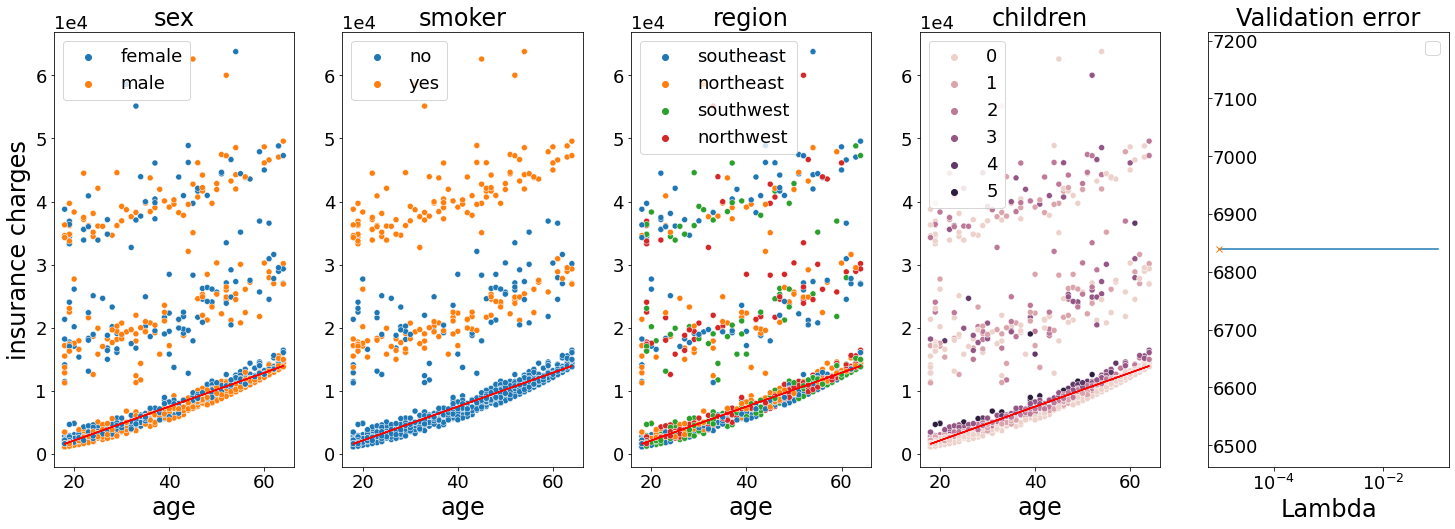
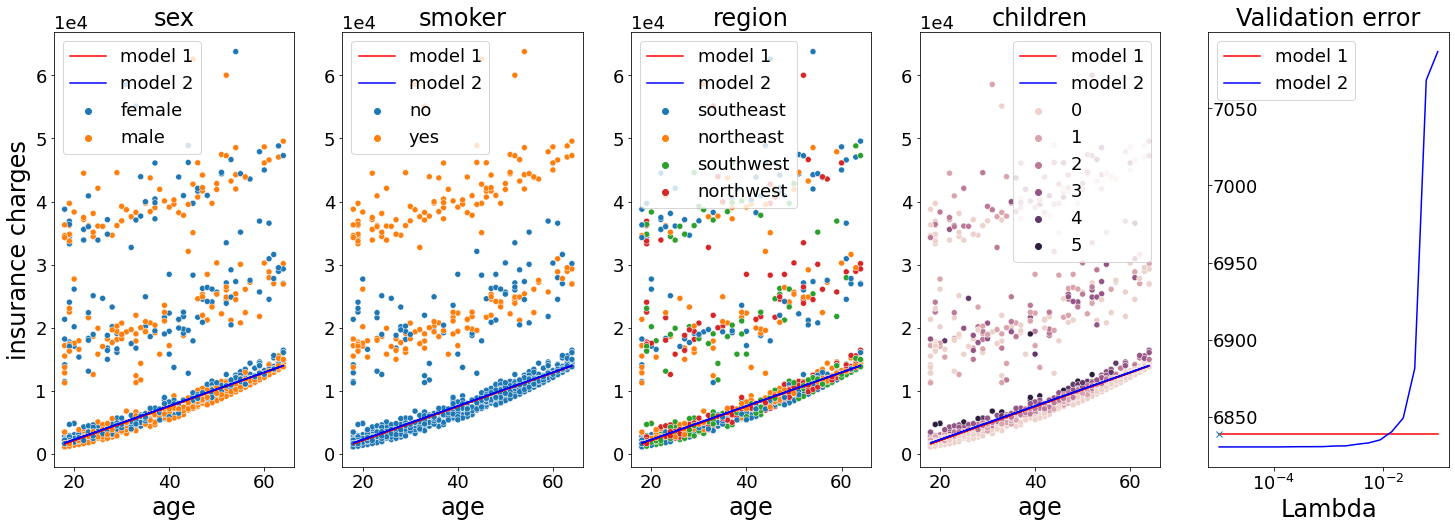
dernière partie

diff --git a/doc/report_homework.tex b/doc/report_homework.tex
@@ -470,7 +470,7 @@ x = \begin{pmatrix}
 y_{I+1} = 1961.0894 \approx 1961.09
 \end{array}
 \end{equation}
-Furthermore, the other $y_i$ are indeed zero. As we can see, the value found by the dual problem is the same as the value of the money hidden in the third spot. This spot is also one of the two spots (along with spot 2) which can be searched in its entirety by the thief within the exact allocated time T without being caught by the police. Further analysis of this solution can show that searching a combination of these hiding spots still yields a maximum profit of 1961.08 dollars for the thief. For example, should the thief search the 5th spot completely (the thief can search this spot in its entirety and still have time to search another spot) and the last spot until time runs out, he would still end up with less than or equal to 1961.08 dollars.
+Furthermore, the other $y_i$ are indeed zero. As we can see, the value found by the dual problem is the same as the value of the money hidden in the third spot. This spot is also one of the spots which can be searched in its entirety by the thief within the exact allocated time T without being caught by the police. Further analysis of this solution can show that searching a combination of these hiding spots still yields a maximum profit of 1961.08 dollars for the thief. For example, should the thief search the 5th spot completely (the thief can search this spot in its entirety and still have time to search another spot) and the last spot until time runs out, he would still end up with less than or equal to 1961.08 dollars.
 
 The optimal strategy for the thief would be to search position 3 completely (that is, until time runs out) to get the maximum amount of money.
 
@@ -480,7 +480,7 @@ The optimal strategy for the thief would be to search position 3 completely (tha
 \end{exercise}
 
   
- \section{Adversarial Training}
+ \section{Adversarial Training}\label{sec:adv}
   \begin{exercise}{6}
   Write the convex hull of the adversary's feasible set 
   \begin{equation}
@@ -614,7 +614,7 @@ We notice a significant difference between the MEA on the test set against the t
 \begin{figure}[!ht]
   \centering
   \includegraphics[width=0.5\textwidth]{doc/images/cross_val_insurance.png}
-  \caption{Cross-validation on parameter $\lambda$ in Lasso regression on insurance data. 25-75\% split for cross-validation.}
+  \caption{Cross-validation on parameter $\lambda$ in Lasso regression on insurance data from predictions made by mae penalized regression where $X\in\mathbb{R}^{1338x6}$ i.e., all columns are used to predict the insurance charges. For cross-validation, a 25-75\% split was used.}
   \vspace{-3mm}
   \label{fig:cross-val-insurance}
 \end{figure}
@@ -639,12 +639,12 @@ on interpreting your results and on justifying the chosen optimization scheme.
          \caption{Prediction from age. Results from cross-validation on the right. }
          \label{fig:age}
      \end{subfigure}
-        \caption{Linear regression to predict insurance charges from bmi or age. On the right, validation error obtained by cross-validation on a 25-75\% split dataset. }
+        \caption{Linear regression to predict insurance charges from bmi or age. On the right, validation error obtained by cross-validation on a 25-75\% split dataset. In red the prediction using mean-absolute-Error penalized regression and in blue using adversarial training. For (b), predictions are the same for both models. }
         \label{fig:age-bmi-raw}
 \end{figure}
 
 
-\textit{Answer.} As a toy example, we choose the \textit{Medical Cost Personal Datasets} dataset frome Kaggle (\href{https://www.kaggle.com/mirichoi0218/insurance}{link to dataset}). The dataset contains 1338 samples of insurance charges in the U.S and the following columns: 
+\textit{Answer.} As a toy example, we choose the \textit{Medical Cost Personal Datasets} dataset frome Kaggle (\href{https://www.kaggle.com/mirichoi0218/insurance}{link to dataset}). This dataset contains 1338 samples of insurance charges in the U.S distributed across the following columns: 
 \begin{itemize}
     \item age: age of primary beneficiary
     \item sex: insurance contractor gender, female, male
@@ -654,11 +654,16 @@ on interpreting your results and on justifying the chosen optimization scheme.
     \item region: the beneficiary's residential area in the US, northeast, southeast, southwest, northwest.
     \item charges: individual medical costs billed by health insurance
 \end{itemize}
-From this, following the same initial steps as in section~\ref{sec:mae} (Mean-Absolute-Error Penalized Regression), we first try to predict the charges from the rest of the data, so $X\in\mathbb{R}^{1338x6}$. Unfortunately, due to the high variety in data, the predictions are really inaccurate. Results of cross-validation to find the best parameters on a 25-75\% split can be see in Figure~\ref{fig:cross-val-insurance}. Validation errors stay very high for all parameters.     
+Following the same initial steps as in section~\ref{sec:mae} (mean-absolute-error penalized regression), we first tried to predict the individual charges from the rest of the data, so $X\in\mathbb{R}^{1338x6}$. Unfortunately, due to the high variety in data, the predictions are really inaccurate and the error on the validation set high (c.f. Figure~\ref{fig:cross-val-insurance}, approximately \$3000 error). Because of this, we decided to use one-dimensional regression instead, to see if the high-dimensionality and variety of the initial data was the problem.
 
-Because of this, we decided to predict one-dimensional regressions instead, to see if the high-dimensionality of the initial data was the problem. For this, we tried predicting the insurance charges from either the age or bmi of clients (Figure~\ref{fig:age-bmi-raw}). For both, the predictions are again very poor but we still notice some interesting things. When predicting from bmi, we see that the smoking habit has the a drastic effect on insurance charges, almost splitting the  results into two clusters. Regarding the predictions from the age, we see that there seem to be three clusters of points, the biggest being the lower one. This might explain why the evaluation error is so high for both regressions, as all samples above that lower line might be seen as outliers. The plots look actually really linear, but it would probably be better to do one regression per cluster. We show this by looking only at samples with charges below \$10'000 i.e., the lower line (Figure~\ref{fig:age-cluster-1}). When applying the same formula only to those samples, we see that the validation error has become much smaller and that the prediction now follows the samples in a nice linear way. We now also notice that there seems to be a separation in charges according to the regions. Regions 3-5 seem to have higher charges than 0-2, so there might be a second dimension in the problem and in further work we might try predicting charges from the age and region. 
+We predicted the insurance charges from either the age or bmi of clients (Figure~\ref{fig:age-bmi-raw}) using the models from section~\ref{sec:mae} (mae regression) and section~\ref{sec:adv} (adversarial training). The models give similar if not equal results, but predictions are again poor on the validation set. Nevertheless, we still notice some interesting things. 
 
-The same technique was applied to the smoking variable, where we isolated charges from smokers and non smokers and tried to predict their insurance charges from their bmi (Figure~\ref{fig:bmi-cluster-1}). Compared to the last results, the problem still don't look very linear and predictions are not very accurate. Because of their circular form, in this case it might be more advised to use a clustering to predict the charges. For smokers, there are definitely two clear clusters depending on the bmi of the client. 
+When predicting fees using the bmi, we see that the smoking habit of clients has a drastic effect on insurance charges, almost splitting the charges into two clusters, where smokers have to pay higher fees (Figure~\ref{fig:bmi}). Regarding the effect of the age, we see that the data are clustered into three linear clusters, the most dense one being the lower one (Figure~\ref{fig:age}). This might explain why the evaluation error is so high for both regressions, as all samples above that lower line might be seen as outliers while they just correspond to another cluster of clients. It might probably be better to do one regression per cluster for this so we took only samples with charges below \$10'000 i.e., the lower line (Figure~\ref{fig:age-cluster-1}). After applying mae penalized regression only to those samples, we see that the validation error is smaller than before (~\$600) and that the prediction now nicely follows the samples. We also notice that there seems to be a separation in insurance fees for this cluster according to the regions clients live in. Regions 3-5 seem to have higher charges than 0-2, so there might be a second interesting dimension in the problem here. In further work we might try predicting charges from the age and region for this cluster. 
+
+We also looked at the smoker/non-smoker clusters from Figure~\ref{fig:bmi}. We separated fees from smokers and non smokers and tried to predict their insurance charges from their bmi (Figure~\ref{fig:bmi-cluster-1}). This time, the problem does not look linear and the errors remain high (~\$4000). Because of their circular form, it might be more advised to use a clustering to predict the charges or apply regression with a kernel. For smokers, by eye we definitely see two clear clusters depending on the bmi of the client.
+
+
+Overall, regression techniques seem to be lacking on this data if it is not pre-processed before. But for linear data such as the fees from the age below \$10'000 it works well.  
 
 
 
@@ -678,7 +683,7 @@ The same technique was applied to the smoking variable, where we isolated charge
          \caption{Prediction from bmi, depending on smoking habit}
          \label{fig:bmi-cluster-1}
      \end{subfigure}
-        \caption{Linear regression to predict insurance charges from bmi or age. On the right, validation error obtained by cross-validation on a 25-75\% split dataset.}
+        \caption{Linear regression to predict insurance charges from bmi or age. On the right, validation error obtained by cross-validation on a 25-75\% split dataset. Predictions (in red) were made using the mean-absolute-error penalized regression model. }
         \label{fig:age-bmi-clusters}
 \end{figure}
 
